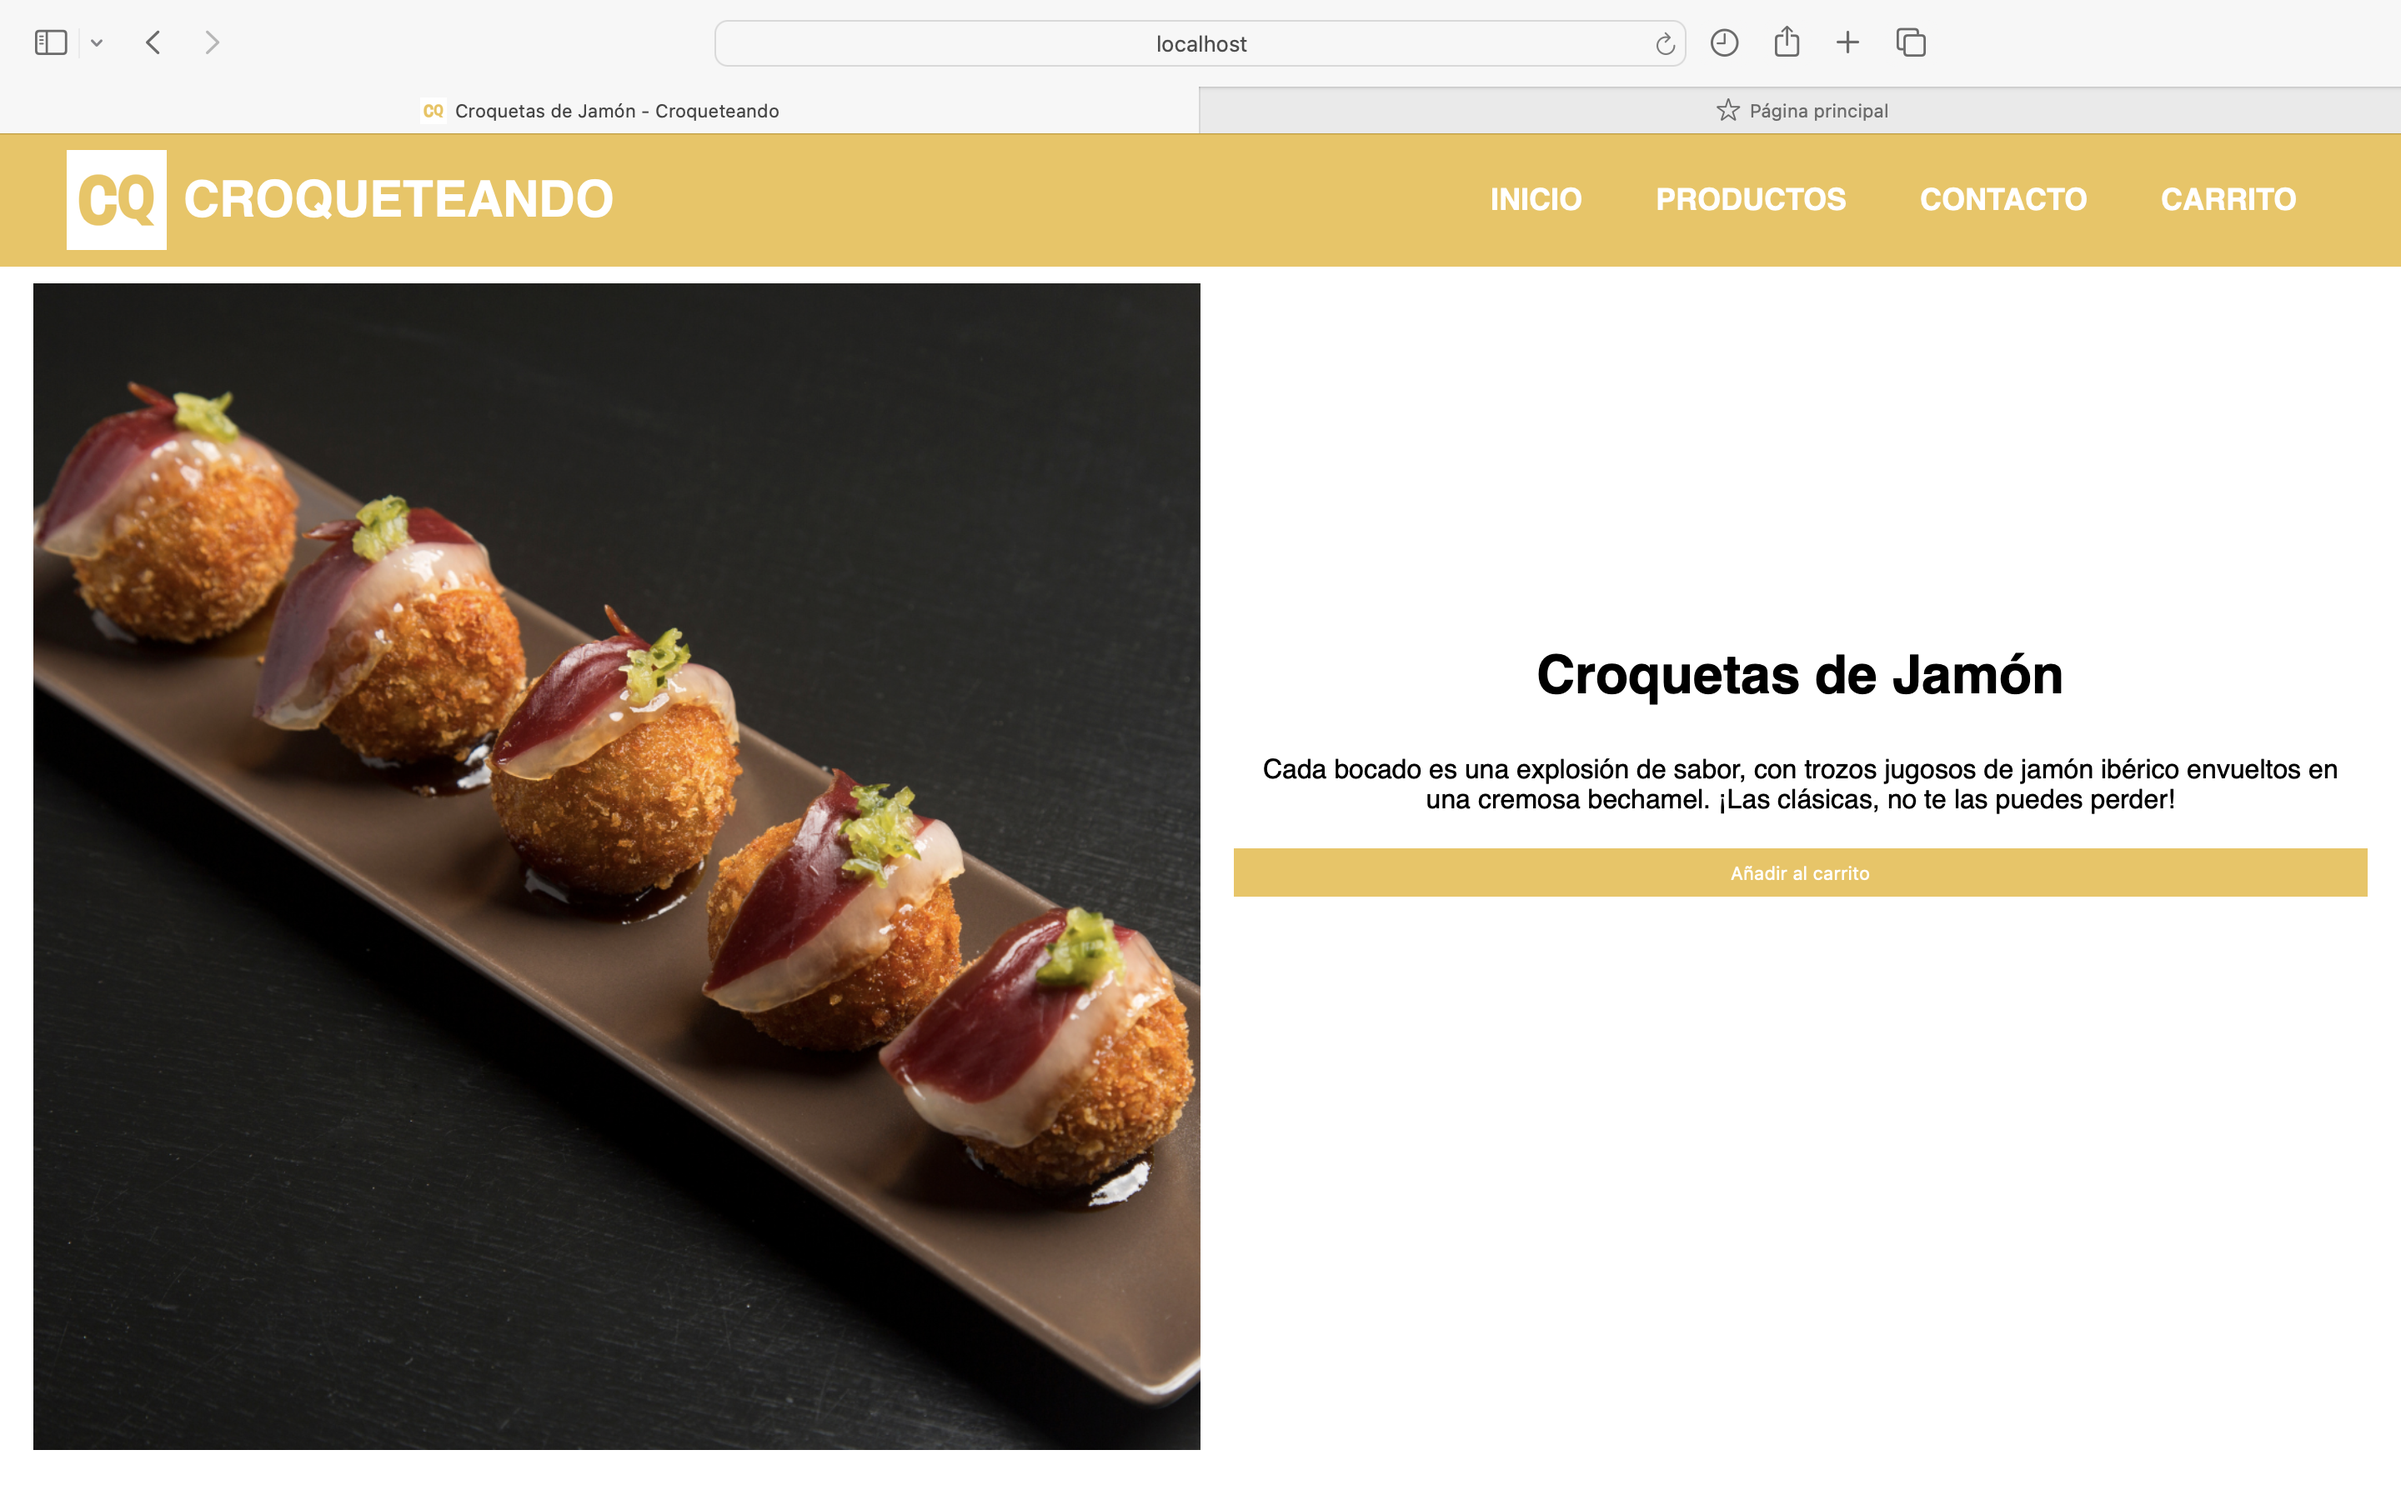
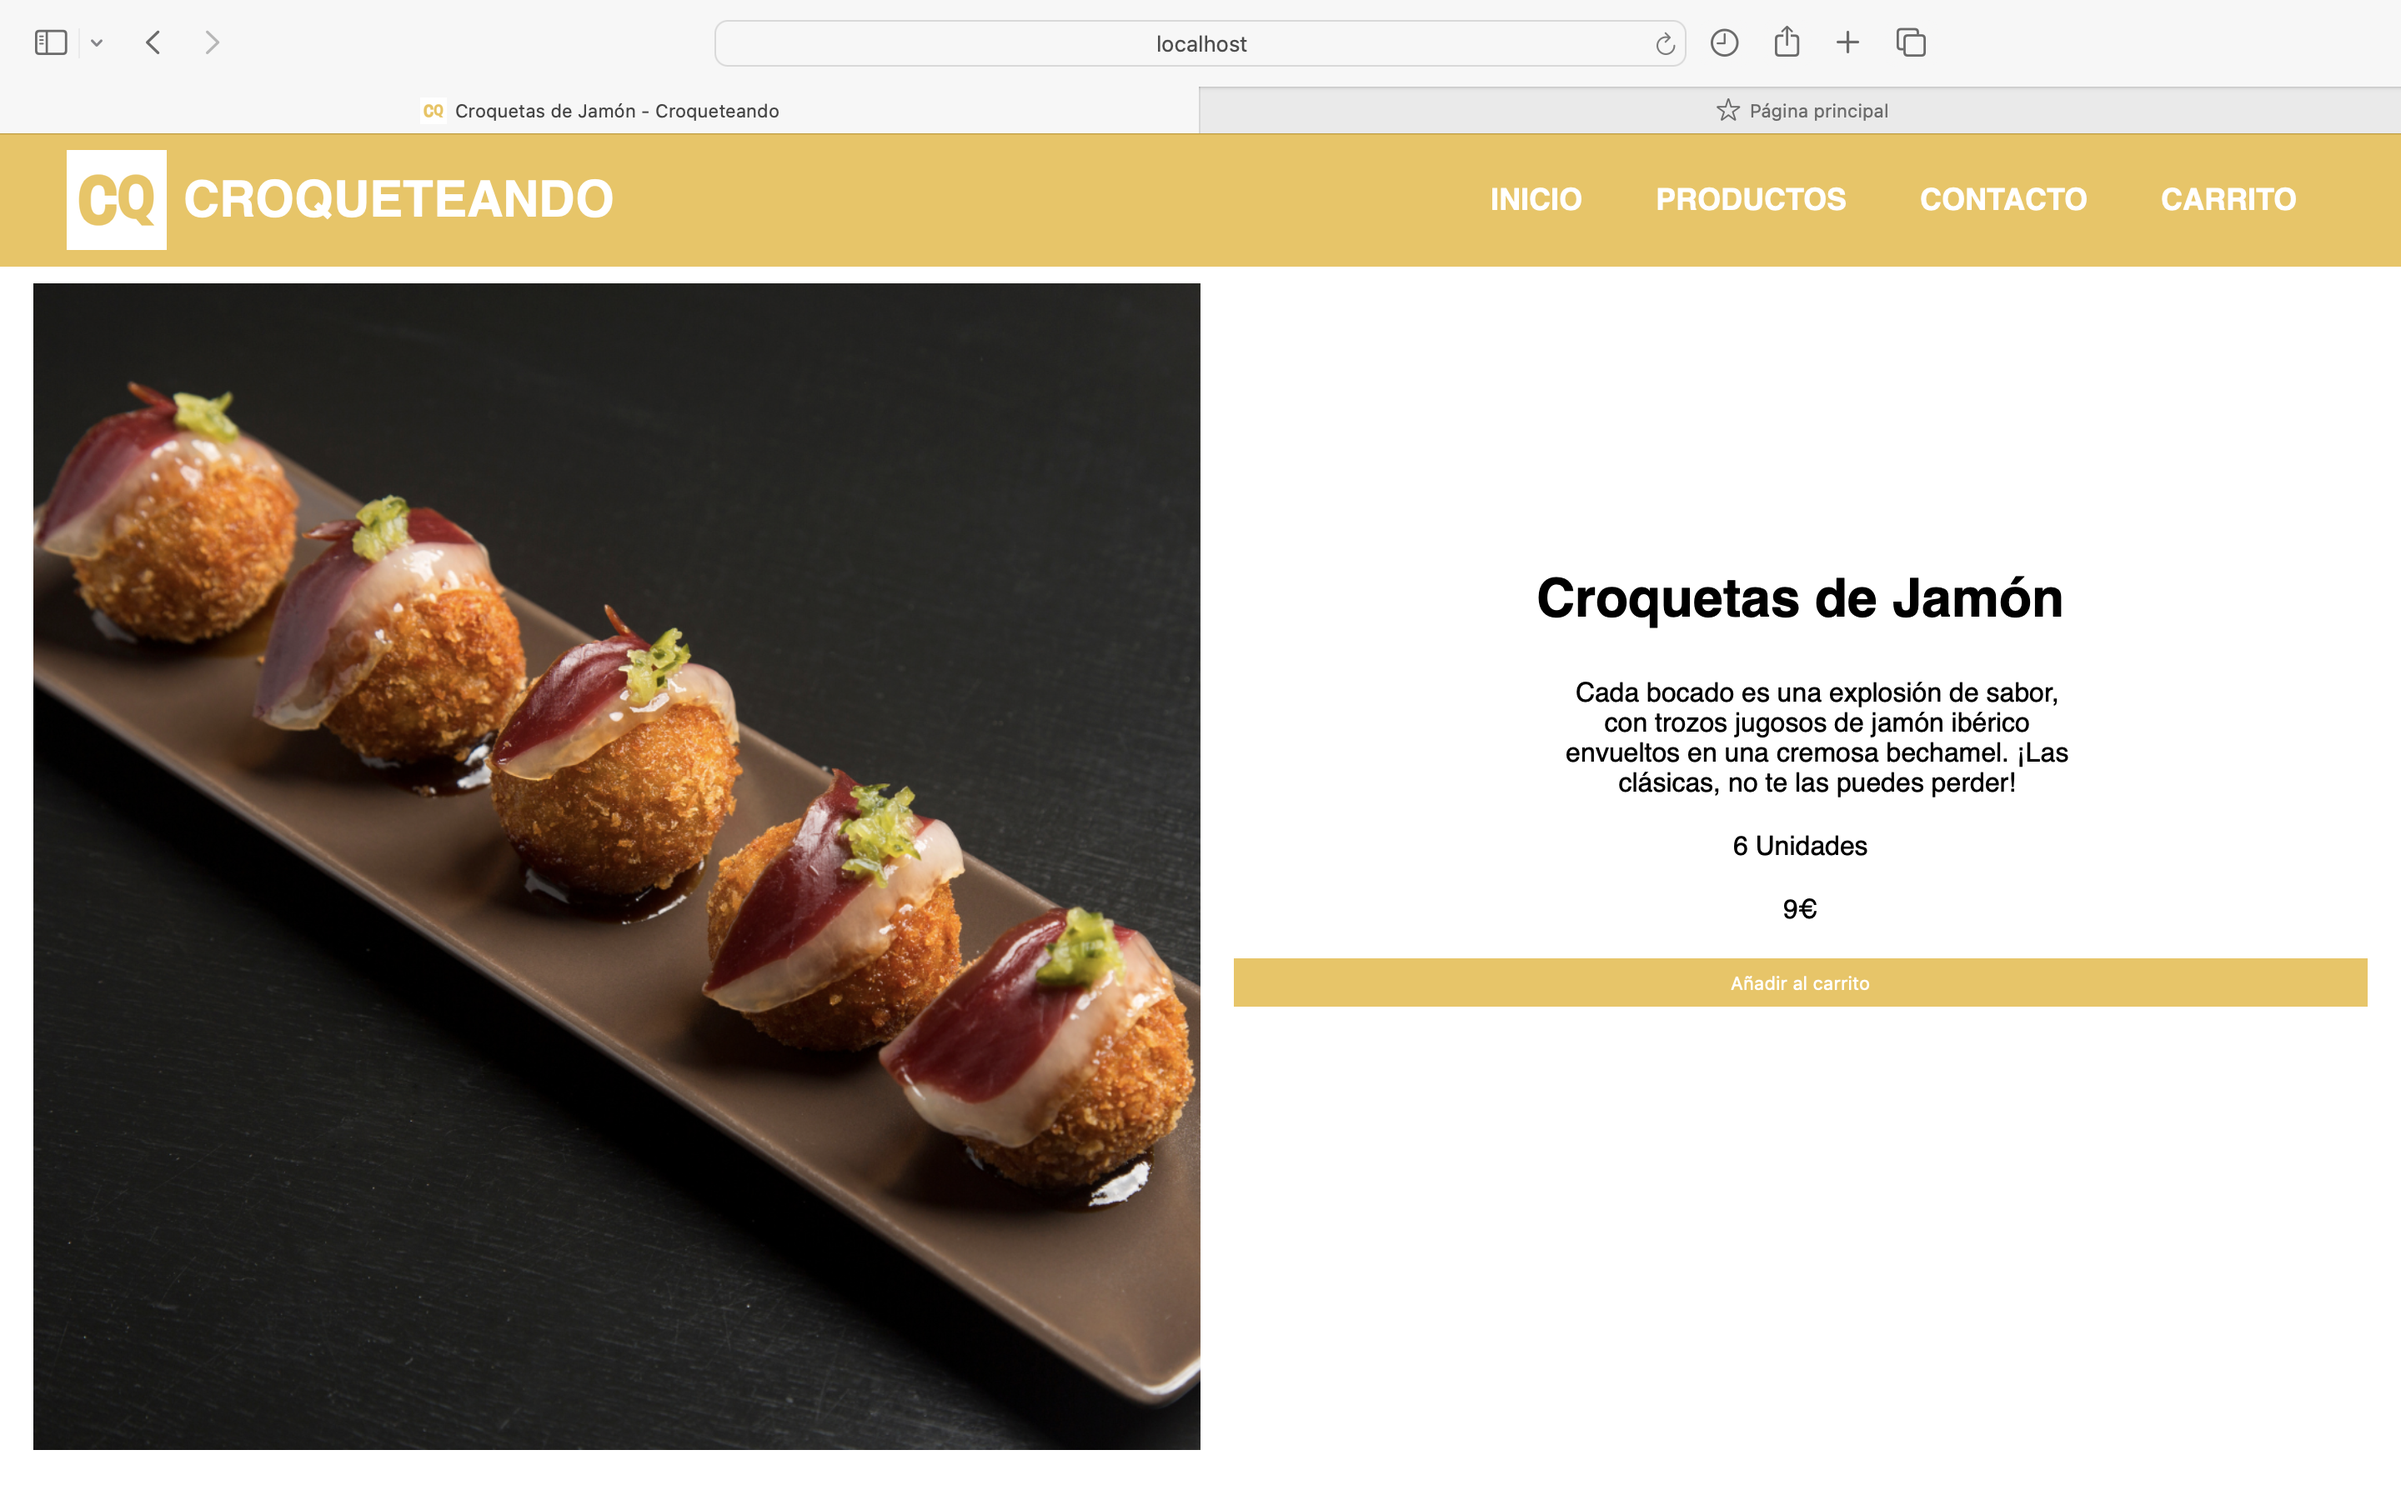
Error solucionado. Imágenes actualizadas

Changed region(s): [[0.5, 0.3733, 1.0, 0.6844]]

diff --git a/P1/productos.css b/P1/productos.css
@@ -112,18 +112,17 @@ body {
 .description {
    float: right;
    width: 50%;
+   margin-top: 150px;
    padding-left: 20px;
    display: flex; /* Utilizamos flexbox para alinear verticalmente */
    flex-direction: column; /* Apilamos elementos verticalmente */
    justify-content: center; /* Centramos verticalmente */
-
    align-items: center; /* Centrado vertical */
-   height: 70vh; /* Ajusta el alto al 100% del viewport */
 }
 
 .description h1 {
    text-align: center;
-   margin: 20px;
+   margin: 20px 0;
 }
 
 .description p {

diff --git a/P1/producto1.html b/P1/producto1.html
@@ -33,7 +33,8 @@
     <div class="description">
         <h1>Croquetas de Jamón</h1>
         <p class="description">Cada bocado es una explosión de sabor, con trozos jugosos de jamón ibérico envueltos en una cremosa bechamel. 
-            ¡Las clásicas, no te las puedes perder!</p>
+            ¡Las clásicas, no te las puedes perder!
+        </p>
         <p class="unidades">6 Unidades</p>
         <p class="price">9€</p>
         <button class="cart">Añadir al carrito</button>

diff --git a/P1/index.css b/P1/index.css
@@ -126,6 +126,10 @@ body {
    margin: 10px; /* Agregar margen superior al botón */
 }
 
+.info-product h2 {
+   text-align: center;
+}
+
 .container-items {
    display: flex;
    flex-wrap: wrap; /* Hacer que los elementos se envuelvan en filas */
